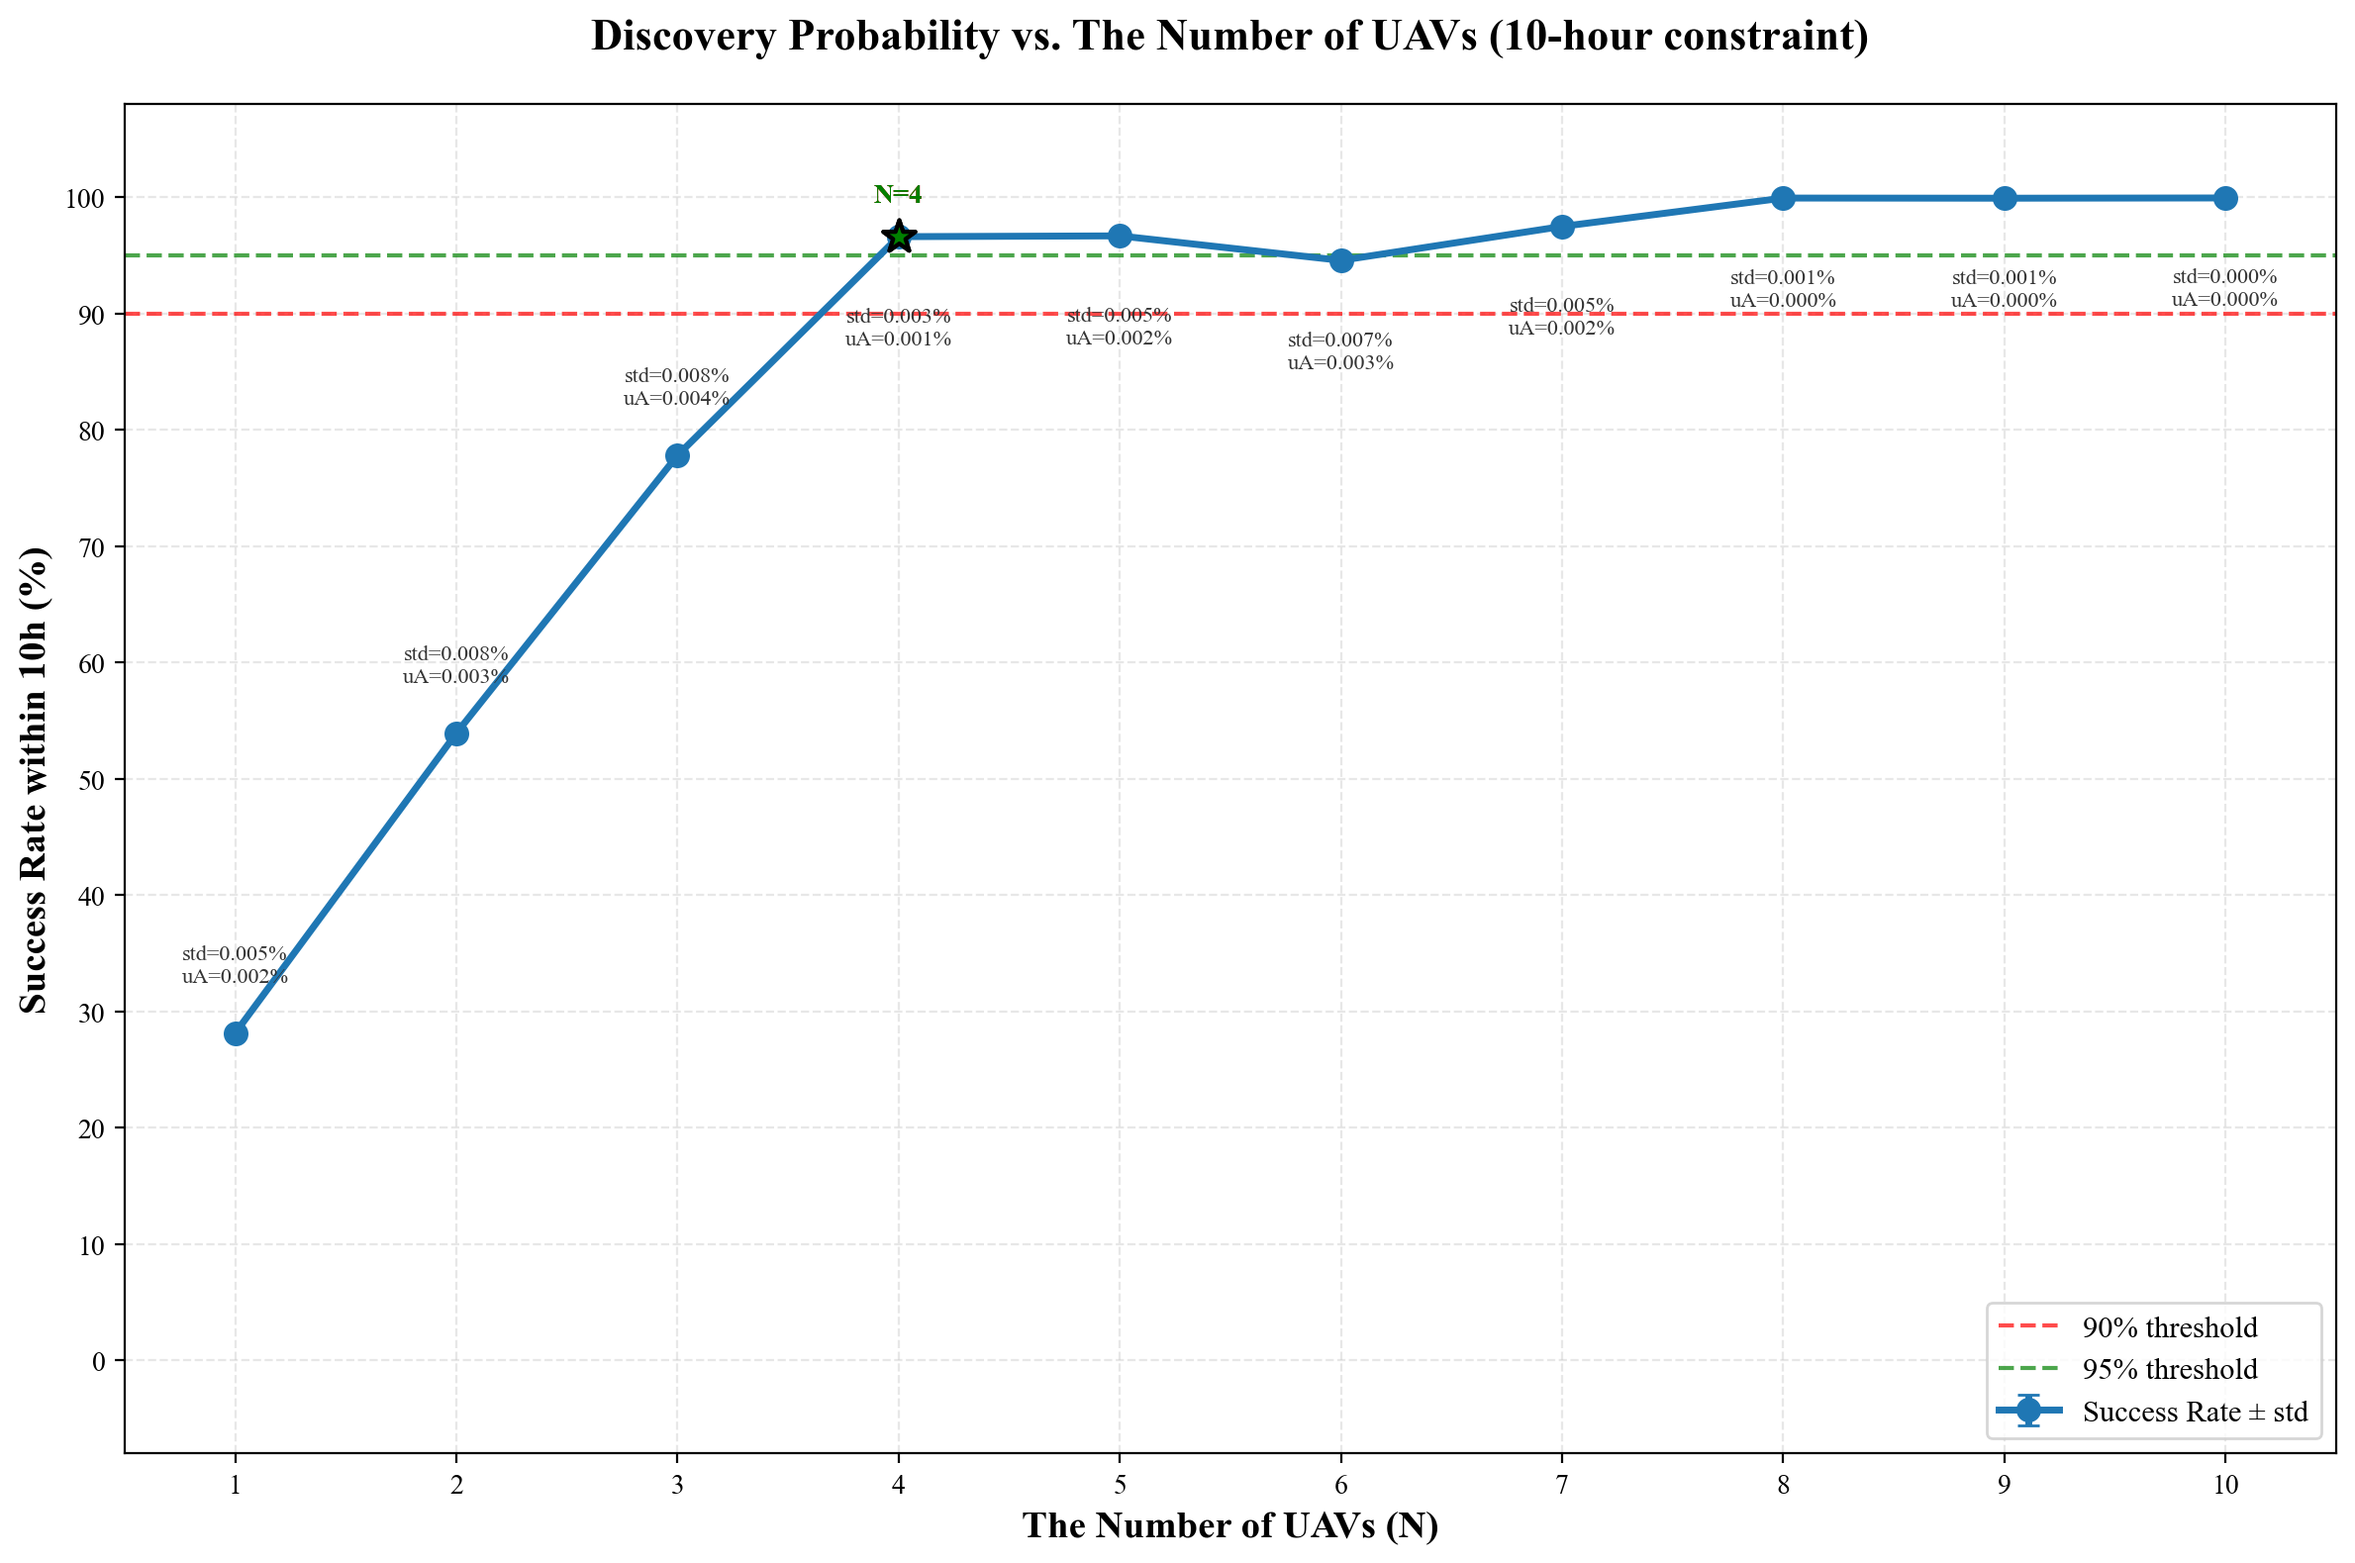
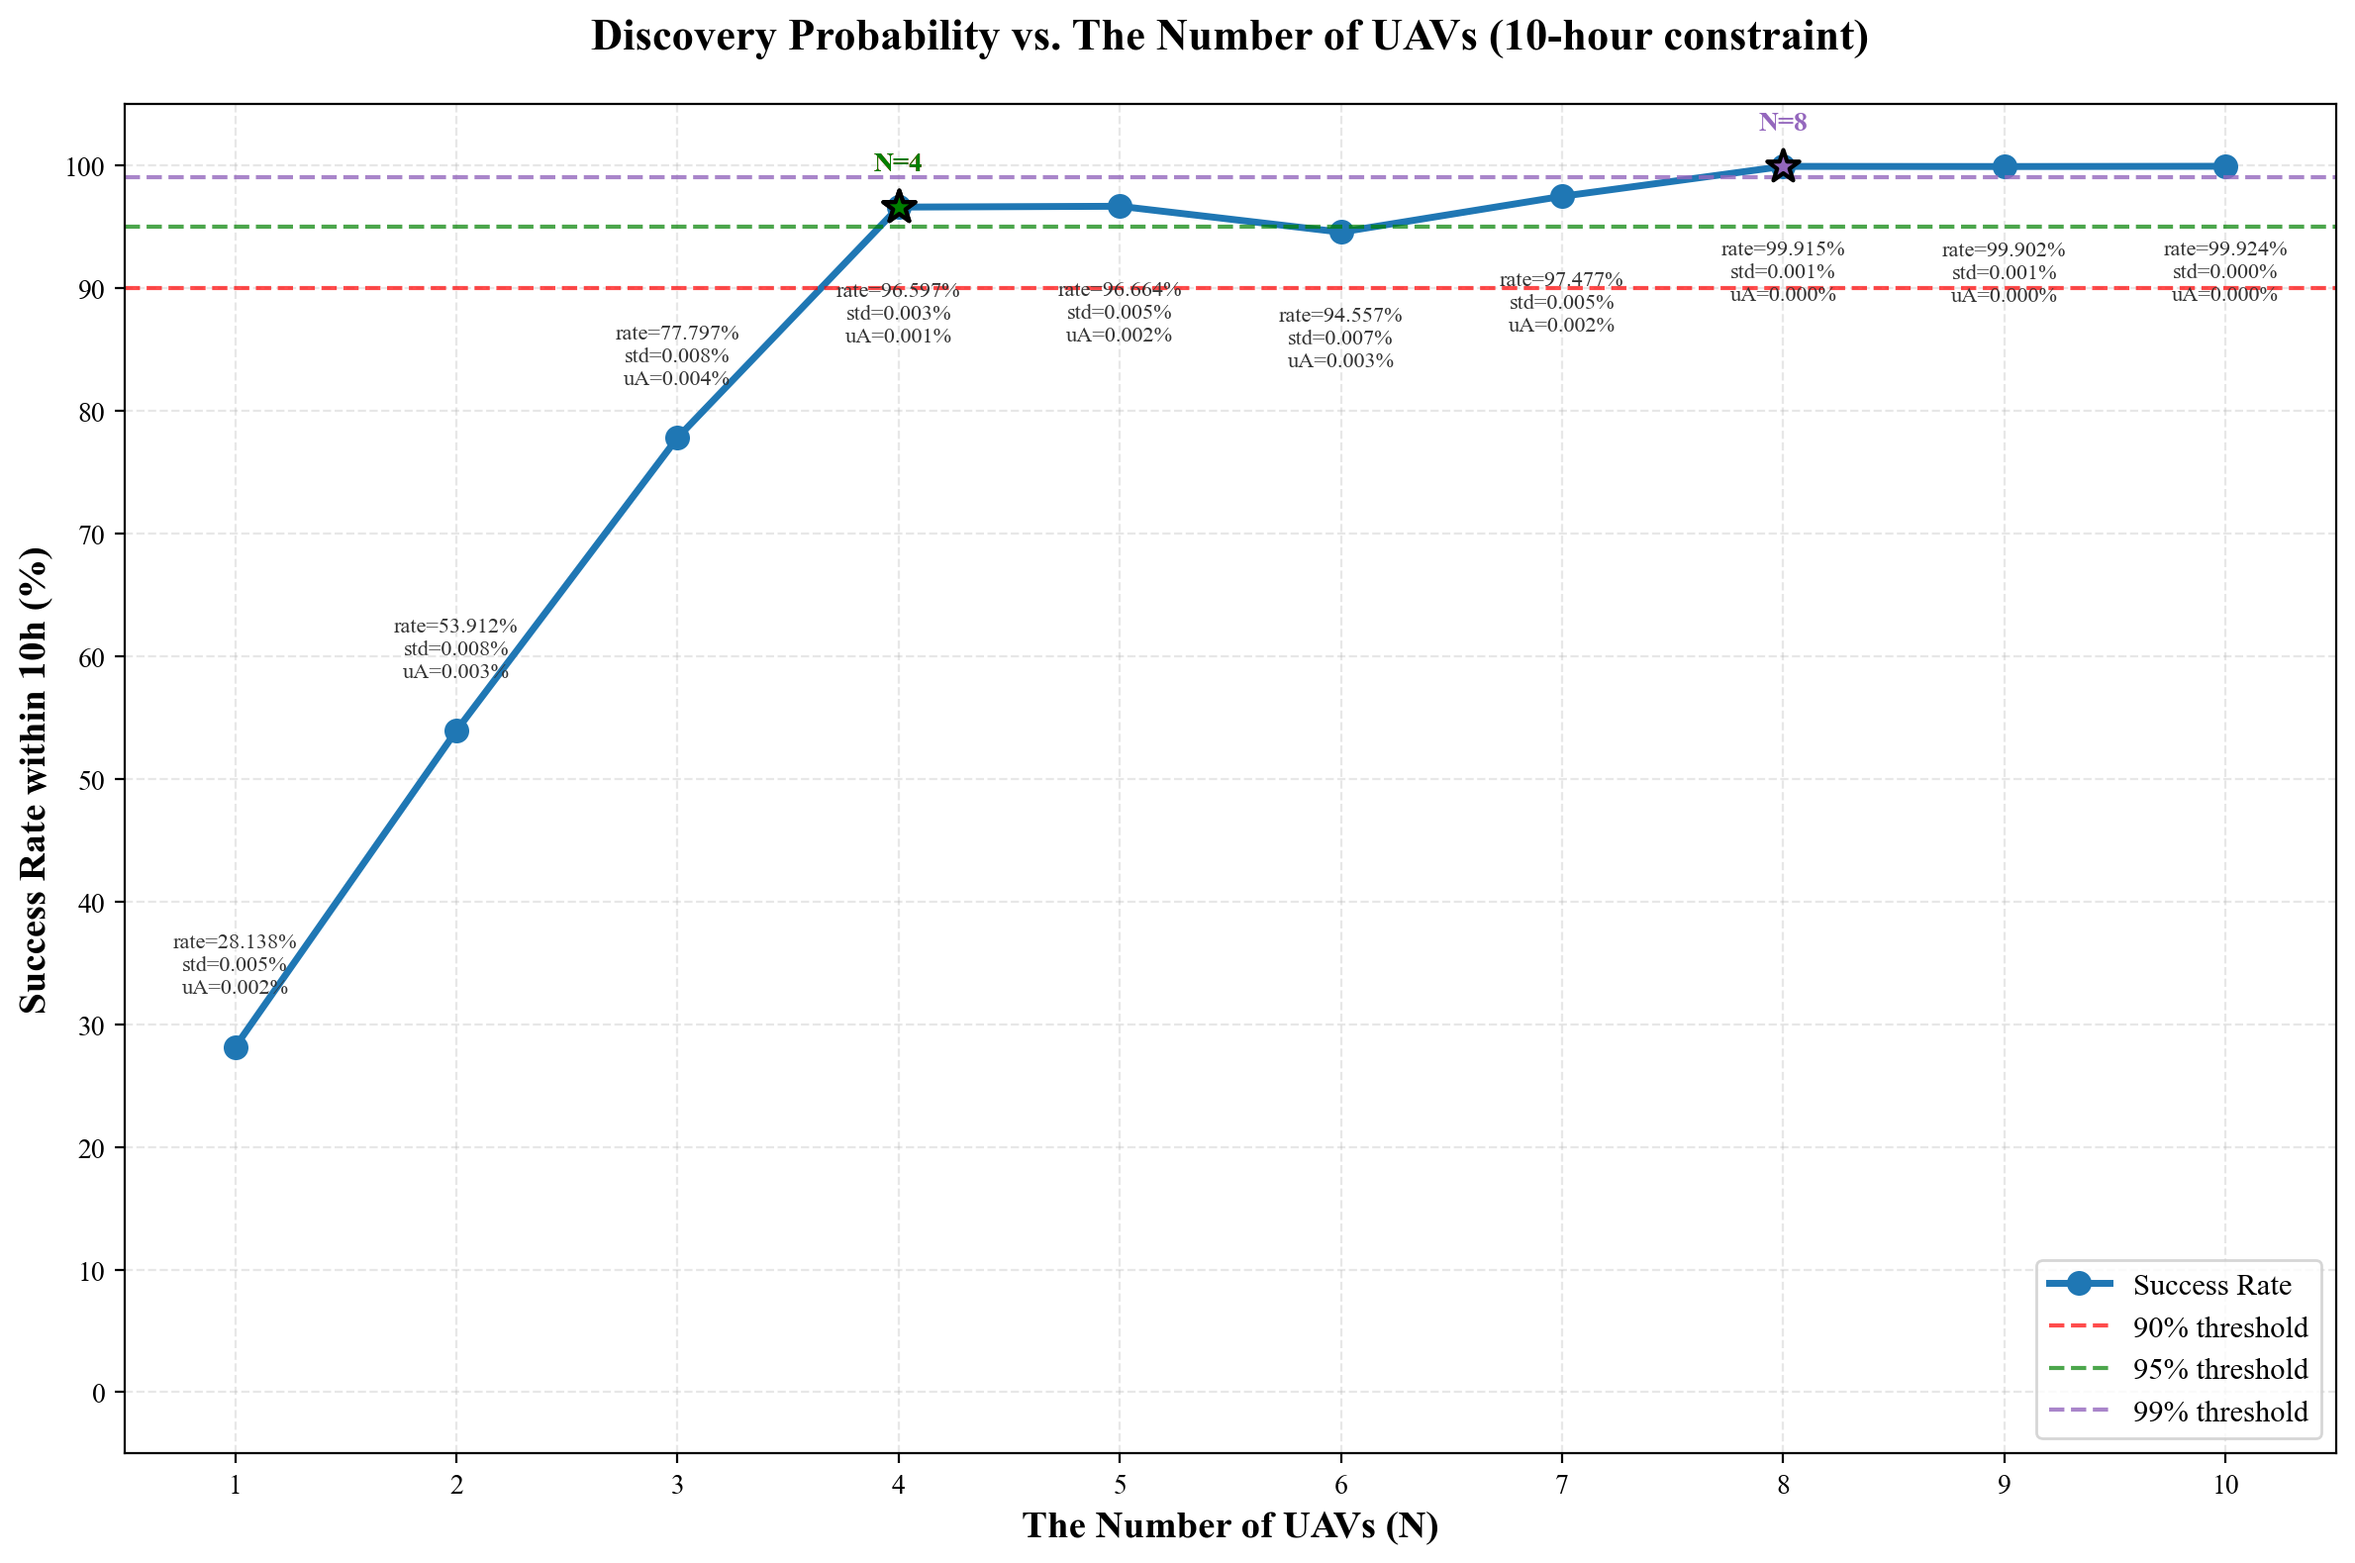
图13：添加99%阈值

diff --git a/Monte_Carlo/pictures/13.py b/Monte_Carlo/pictures/13.py
@@ -354,6 +354,8 @@ def plot_figure_13(results: dict[int, list[float]], params: Figure13Params) -> P
     # 准备数据
     uav_counts = sorted(results.keys())
     success_rates = [results[n][0] * 100.0 for n in uav_counts]
+    std_rates = [results[n][1] * 100.0 for n in uav_counts]
+    u_a_rates = [results[n][2] * 100.0 for n in uav_counts]
     
     # 创建图形
     fig, ax = plt.subplots(figsize=params.figsize, dpi=params.dpi)
@@ -361,13 +363,35 @@ def plot_figure_13(results: dict[int, list[float]], params: Figure13Params) -> P
     # 绘制曲线
     ax.plot(uav_counts, success_rates, "o-", linewidth=2.5, markersize=8, 
             label="Success Rate", color="#1f77b4")
+
+    # 标注每个点的成功率 / std / uA（成功率放在最上行）
+    for i, n_uavs in enumerate(uav_counts):
+        rate = success_rates[i]
+        std_v = std_rates[i]
+        u_a_v = u_a_rates[i]
+        y_offset = -6.0 if rate >= 92.0 else 4.0
+        va = "top" if y_offset < 0 else "bottom"
+        ax.text(
+            n_uavs,
+            rate + y_offset,
+            f"rate={rate:.3f}%\nstd={std_v:.3f}%\nuA={u_a_v:.3f}%",
+            ha="center",
+            va=va,
+            fontsize=8,
+            color="#333333",
+        )
     
-    # 添加阈值线（0.90 和 0.95）
+    # 添加阈值线（0.90、0.95、0.99）
     ax.axhline(y=90, color="red", linestyle="--", linewidth=1.5, alpha=0.7, label="90% threshold")
     ax.axhline(y=95, color="green", linestyle="--", linewidth=1.5, alpha=0.7, label="95% threshold")
+    ax.axhline(y=99, color="#9467bd", linestyle="--", linewidth=1.5, alpha=0.8, label="99% threshold")
     
-    # 标记达到 90% 和 95% 的点
-    for threshold, color, label_suffix in [(0.90, "red", "90%"), (0.95, "green", "95%")]:
+    # 标记达到 90%、95%、99% 的首个点
+    for threshold, color, label_suffix in [
+        (0.90, "red", "90%"),
+        (0.95, "green", "95%"),
+        (0.99, "#9467bd", "99%"),
+    ]:
         for i, rate in enumerate(success_rates):
             if rate >= threshold * 100:
                 ax.scatter([uav_counts[i]], [rate], s=150, color=color, marker="*", 
